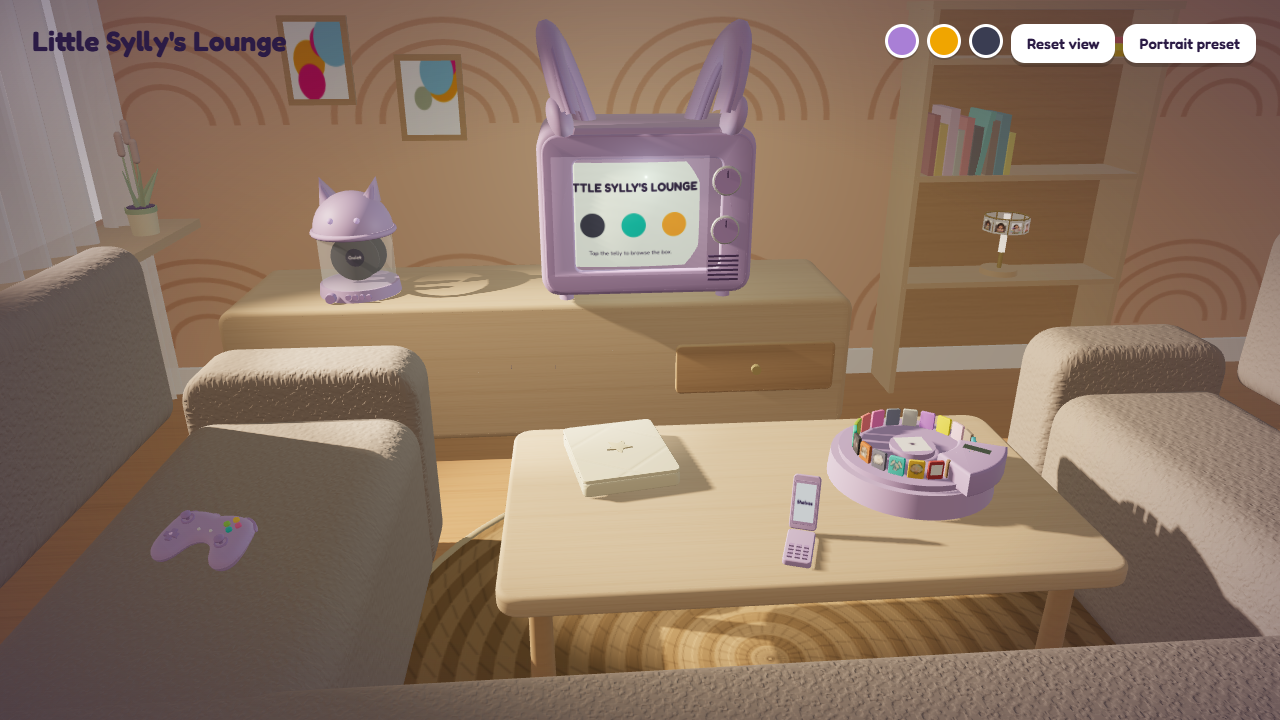
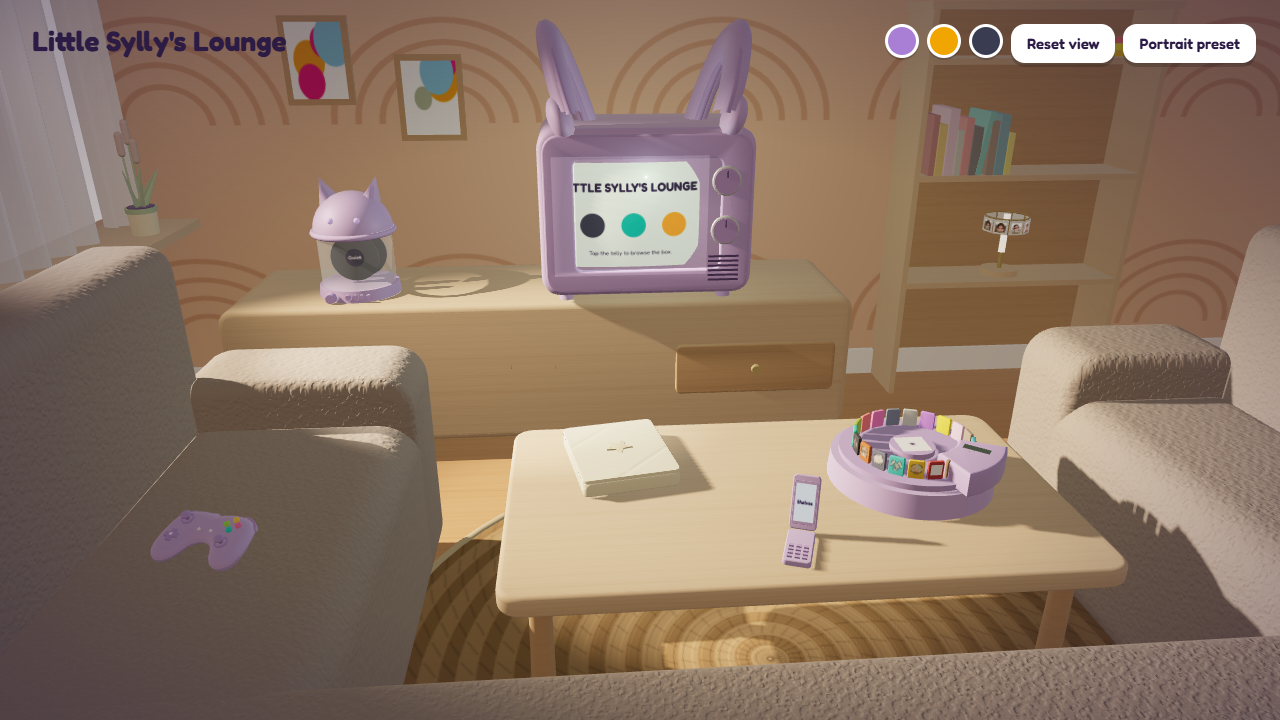
fix(premium): join the couch backs to their seats on both sides
The backs met their seats on an exact plane with zero overlap. Two
moulded boxes sharing a face still read as two objects, because each
one's rounded edge curves away from the shared line and leaves a groove
with the floor visible straight through it — which is what the owner
photographed.

The backs now bite 6 cm into the seat and drop 20 cm below its top, the
way a real couch's back panel continues down behind the cushion. The
arms take the same bite for the same reason.

The harness now asserts intersection and a minimum overlap rather than
adjacency, which is the part that was wrong: "touches" was passing while
the shot plainly showed a gap.

389 Node checks, 18 visual checks, all green.

diff --git a/wip/premium/prm-room.js b/wip/premium/prm-room.js
@@ -70,14 +70,21 @@
        Two measured constraints decide the numbers, not taste:
        - The bottom of frame crosses seat height at z = 0.72, so the FRONT run must reach back past
          that or its whole length sits below the shot — which is what happened the first time.
-       - Every back panel shares a face with its seat. A back floating a centimetre clear of the
-         cushion reads as a detached slab, which is exactly how the first version looked. */
-    const SEAT_H = 0.47, BACK_H = 0.41, BACK_T = 0.13;
+       - Every back panel must OVERLAP its seat, not merely touch it. Boxes that meet on an exact
+         plane still read as two objects: both pieces are moulded with rounded edges, so at the
+         shared line each one curves away and leaves a groove with the floor showing through it.
+         The backs therefore reach 6 cm into the seat horizontally and drop 20 cm below its top,
+         the way a real couch's back panel continues down behind the cushion. */
+    const SEAT_H = 0.47, BACK_H = 0.41, BACK_T = 0.13, BACK_BITE = 0.06, BACK_DROP = 0.20;
     /* frontZ1 sits BEHIND the camera (z 1.50), so the front back-rest is what we are leaning on
        rather than a pale wall across the bottom of the shot — which is what it was at 1.35. The
        arms are wide enough to leave the table its air; a tighter U swallowed the rug whole. */
     const U = { frontZ0: 0.55, frontZ1: 1.50, armZ0: -0.30, armZ1: 0.60, leftX: -0.95, rightX: 1.55, innerL: -0.42, innerR: 1.10 };
-    const seatY = R.seatTopY - SEAT_H / 2, backY = R.seatTopY + BACK_H / 2;
+    const seatY = R.seatTopY - SEAT_H / 2;
+    // the back's own box: thickness + the bite it takes out of the seat, dropped below the seat top
+    const backT = BACK_T + BACK_BITE, backH = BACK_H + BACK_DROP;
+    const backY = R.seatTopY + BACK_H / 2 - BACK_DROP / 2;
+    const backOff = BACK_T / 2 - BACK_BITE / 2;   // centre offset from the seat's outer face
     const span = (a, b) => b - a, mid = (a, b) => (a + b) / 2;
 
     add('seatFront', moulded(span(U.leftX, U.rightX) + 0.05, SEAT_H, span(U.frontZ0, U.frontZ1), 0.09), mats.fabric,
@@ -87,17 +94,18 @@
     add('seatRight', moulded(span(U.innerR, U.rightX), SEAT_H, span(U.armZ0, U.armZ1), 0.09), mats.fabric,
         [mid(U.innerR, U.rightX), seatY, mid(U.armZ0, U.armZ1)], null, { cast: true });
     // backs — each shares a face with its own seat, so the U reads as one piece of furniture
-    add('backFront', moulded(span(U.leftX, U.rightX) + 0.05, BACK_H, BACK_T, 0.06), mats.fabric,
-        [mid(U.leftX, U.rightX), backY, U.frontZ1 + BACK_T / 2], null, { cast: true });
-    add('backLeft', moulded(BACK_T, BACK_H, span(U.armZ0, U.frontZ1), 0.06), mats.fabric,
-        [U.leftX - BACK_T / 2, backY, mid(U.armZ0, U.frontZ1)], null, { cast: true });
-    add('backRight', moulded(BACK_T, BACK_H, span(U.armZ0, U.frontZ1), 0.06), mats.fabric,
-        [U.rightX + BACK_T / 2, backY, mid(U.armZ0, U.frontZ1)], null, { cast: true });
-    // arms capping the U's two open ends, facing the telly
-    add('armLeft', moulded(span(U.leftX, U.innerL), 0.58, 0.18, 0.09), mats.fabric,
-        [mid(U.leftX, U.innerL), R.armTopY - 0.29, U.armZ0 - 0.09], null, { cast: true });
-    add('armRight', moulded(span(U.innerR, U.rightX), 0.58, 0.18, 0.09), mats.fabric,
-        [mid(U.innerR, U.rightX), R.armTopY - 0.29, U.armZ0 - 0.09], null, { cast: true });
+    add('backFront', moulded(span(U.leftX, U.rightX) + 0.05, backH, backT, 0.06), mats.fabric,
+        [mid(U.leftX, U.rightX), backY, U.frontZ1 + backOff], null, { cast: true });
+    add('backLeft', moulded(backT, backH, span(U.armZ0, U.frontZ1), 0.06), mats.fabric,
+        [U.leftX - backOff, backY, mid(U.armZ0, U.frontZ1)], null, { cast: true });
+    add('backRight', moulded(backT, backH, span(U.armZ0, U.frontZ1), 0.06), mats.fabric,
+        [U.rightX + backOff, backY, mid(U.armZ0, U.frontZ1)], null, { cast: true });
+    // arms capping the U's two open ends, facing the telly — they bite into the seat for the same reason
+    const ARM_D = 0.18 + BACK_BITE;
+    add('armLeft', moulded(span(U.leftX, U.innerL), 0.58, ARM_D, 0.09), mats.fabric,
+        [mid(U.leftX, U.innerL), R.armTopY - 0.29, U.armZ0 - 0.09 + BACK_BITE / 2], null, { cast: true });
+    add('armRight', moulded(span(U.innerR, U.rightX), 0.58, ARM_D, 0.09), mats.fabric,
+        [mid(U.innerR, U.rightX), R.armTopY - 0.29, U.armZ0 - 0.09 + BACK_BITE / 2], null, { cast: true });
 
     // window on the LEFT wall — the visible source of the key. Centre sits toward the back so the
     // whole opening is in frame from the couch. Sill = a birch ledge the plant sits on (step 3).

diff --git a/wip/premium/verify-prm-props.js b/wip/premium/verify-prm-props.js
@@ -163,14 +163,23 @@ const roomNames = new Set(); room.traverse(o => { if (o.name) roomNames.add(o.na
   ok(sL.min.z < seat.min.z && sR.min.z < seat.min.z, 'both arms reach further back than the front run (a U, not an L)');
   ok(sL.max.z > seat.min.z && sR.max.z > seat.min.z, 'both arms meet the front run at their corners');
   ok(sR.min.x > R.tableX + 0.5, 'the right arm closes the wall-less side of the room');
-  // every back shares a face with its own seat — a back floating clear of the cushion reads as a slab
+  /* Every back must OVERLAP its seat, not merely meet it on a plane. Two moulded boxes sharing an
+     exact face still read as separate objects, because each one's rounded edge curves away from the
+     shared line and leaves a groove with the floor visible through it. Asserting intersection rather
+     than adjacency is the whole lesson. */
   const bF = box('backFront'), bL = box('backLeft'), bR = box('backRight');
-  ok(Math.abs(bF.min.z - seat.max.z) < 0.01, 'the front back touches the front seat');
-  ok(Math.abs(bL.max.x - sL.min.x) < 0.01, 'the left back touches the left seat');
-  ok(Math.abs(bR.min.x - sR.max.x) < 0.01, 'the right back touches the right seat');
-  [['backFront', bF], ['backLeft', bL], ['backRight', bR]].forEach(([n, b]) => {
-    ok(b.min.y >= R.seatTopY - 0.01, n + ' starts at seat height');
+  const overlap = (a, b, axis) => Math.min(a.max[axis], b.max[axis]) - Math.max(a.min[axis], b.min[axis]);
+  ok(bF.intersectsBox(seat) && overlap(bF, seat, 'z') > 0.03, `the front back bites into the front seat (${overlap(bF, seat, 'z').toFixed(3)} m)`);
+  ok(bL.intersectsBox(sL) && overlap(bL, sL, 'x') > 0.03, `the left back bites into the left seat (${overlap(bL, sL, 'x').toFixed(3)} m)`);
+  ok(bR.intersectsBox(sR) && overlap(bR, sR, 'x') > 0.03, `the right back bites into the right seat (${overlap(bR, sR, 'x').toFixed(3)} m)`);
+  [['backFront', bF, seat], ['backLeft', bL, sL], ['backRight', bR, sR]].forEach(([n, b, st]) => {
+    ok(b.min.y < R.seatTopY - 0.05, n + ' drops below the seat top, the way a real back panel does');
     ok(b.max.y > R.seatTopY + 0.3, n + ' rises well above the seat');
+    ok(overlap(b, st, 'y') > 0.05, n + ' and its seat share real height, not a single line');
+  });
+  [['armLeft', sL], ['armRight', sR]].forEach(([n, st]) => {
+    const a = box(n);
+    ok(a.intersectsBox(st) && overlap(a, st, 'z') > 0.03, n + ' bites into its seat too');
   });
   ok(box('armRight').max.y > R.seatTopY, 'the right arm caps the U\'s other open end');
   // the window is on the LEFT wall, drawn, with a slit (spec 2026-09-19 § 3.2, D4/D5)

diff --git a/wip/premium/OWNER-REVIEW-2.md b/wip/premium/OWNER-REVIEW-2.md
@@ -40,7 +40,7 @@ and I re-tune that alone rather than everything)_
 
 **Round 3 nudges, all in:** the couch is now a **U** wrapping the table left, front and right, so
 the wall-less right side is closed by the furniture itself; every back panel shares a face with its
-seat (they were detached slabs before); the sill is narrower with the curtains drawn further back
+seat and drops below its top (they were detached slabs before); the sill is narrower with the curtains drawn further back
 and the cattails standing in the gap where the sun reaches them; the two prints moved above the
 jukebox; and the bookshelf has a visible gap from the TV bench.
 
@@ -50,7 +50,7 @@ jukebox; and the bookshelf has a visible gap from the TV bench.
 
 | Check | Result |
 |---|---|
-| `node wip/premium/verify-prm-props.js` | **384 passed, 0 failed** |
+| `node wip/premium/verify-prm-props.js` | **389 passed, 0 failed** |
 | `NODE_PATH="$HOME/.claude-tooling/playwright/node_modules" node wip/premium/visual-prm.js` | **18 passed, 0 failed** |
 | Mean frame brightness | 126 (the "darker, not dark" band is 60–150; round 1 was 178) |
 | Brightest patch ÷ darkest | 2.3× (round 1 was 1.66; the floor is 2.2×) |
